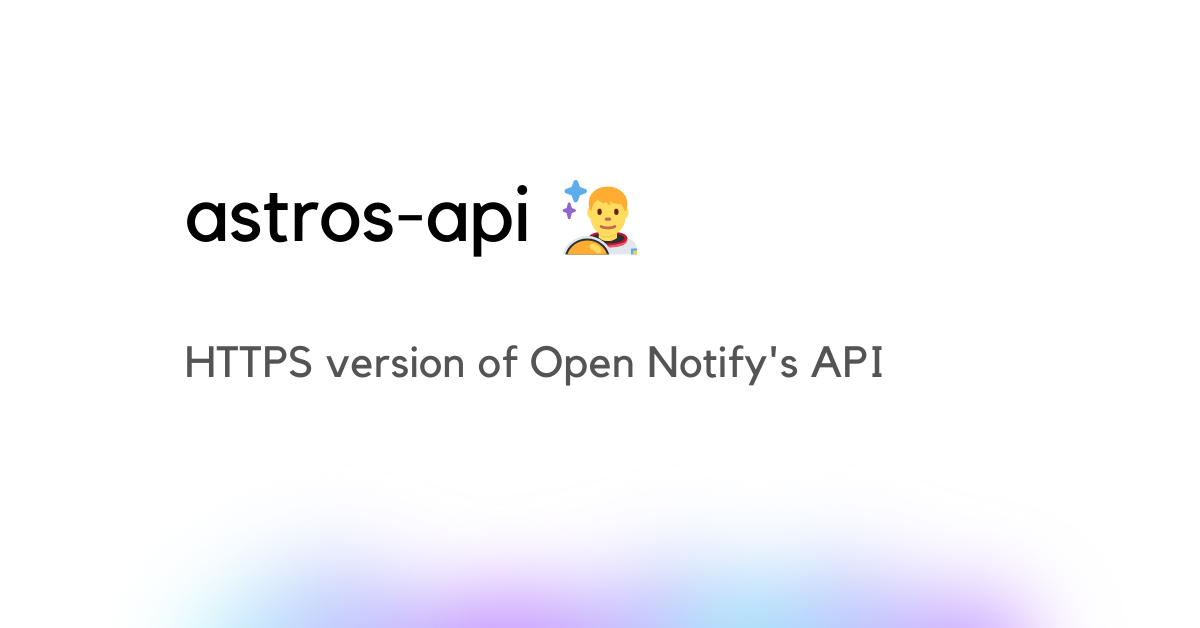
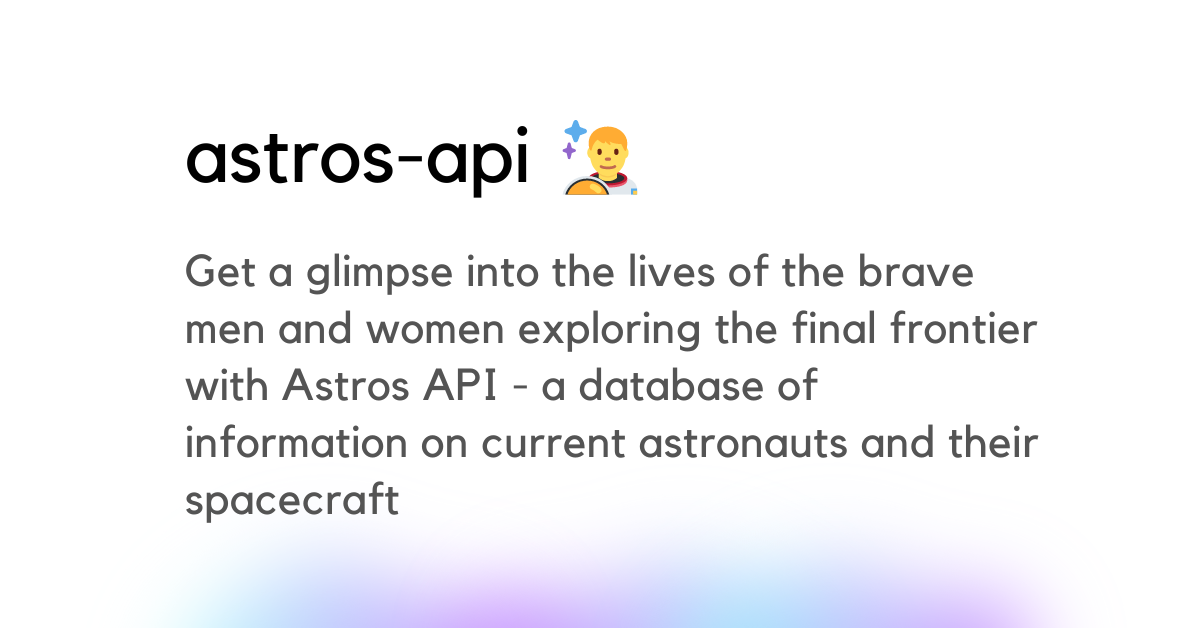
:mag: Update meta image and description

diff --git a/public/index.html b/public/index.html
@@ -18,14 +18,14 @@
   <meta property="og:type" content="website">
   <meta property="og:url" content="https://astros.iqfareez.com/">
   <meta property="og:title" content="Astros API">
-  <meta property="og:description" content="Get to know who are currently on the space!">
+  <meta property="og:description" content="Get a glimpse into the lives of the brave men and women exploring the final frontier with Astros API - a database of information on current astronauts and their spacecraft">
   <meta property="og:image" content="https://github.com/iqfareez/astros-api/blob/master/images/meta-image.png?raw=true">
 
   <!-- Twitter -->
   <meta property="twitter:card" content="summary_large_image">
   <meta property="twitter:url" content="https://astros.iqfareez.com/">
   <meta property="twitter:title" content="Astros API">
-  <meta property="twitter:description" content="Get to know who are currently on the space!">
+  <meta property="twitter:description" content="Get a glimpse into the lives of the brave men and women exploring the final frontier with Astros API - a database of information on current astronauts and their spacecraft">
   <meta property="twitter:image"
     content="https://github.com/iqfareez/astros-api/blob/master/images/meta-image.png?raw=true">
 
